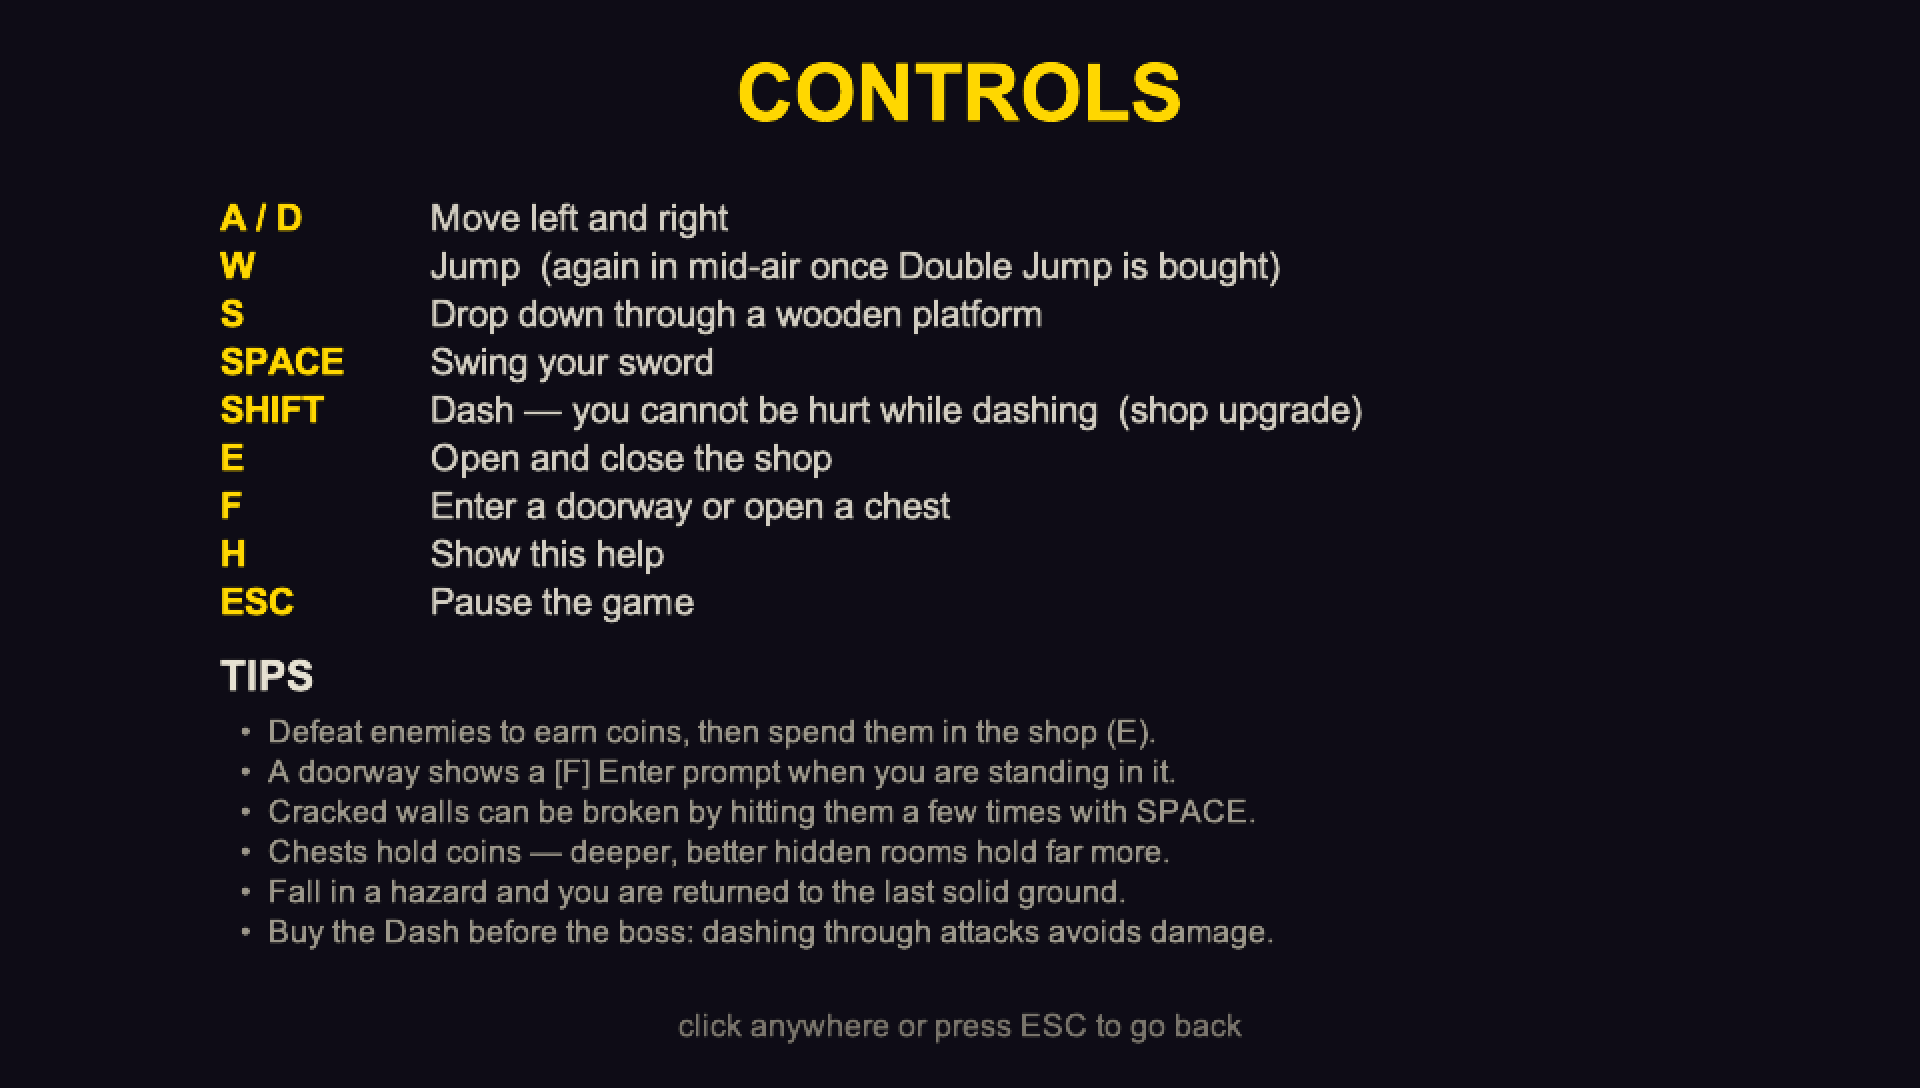
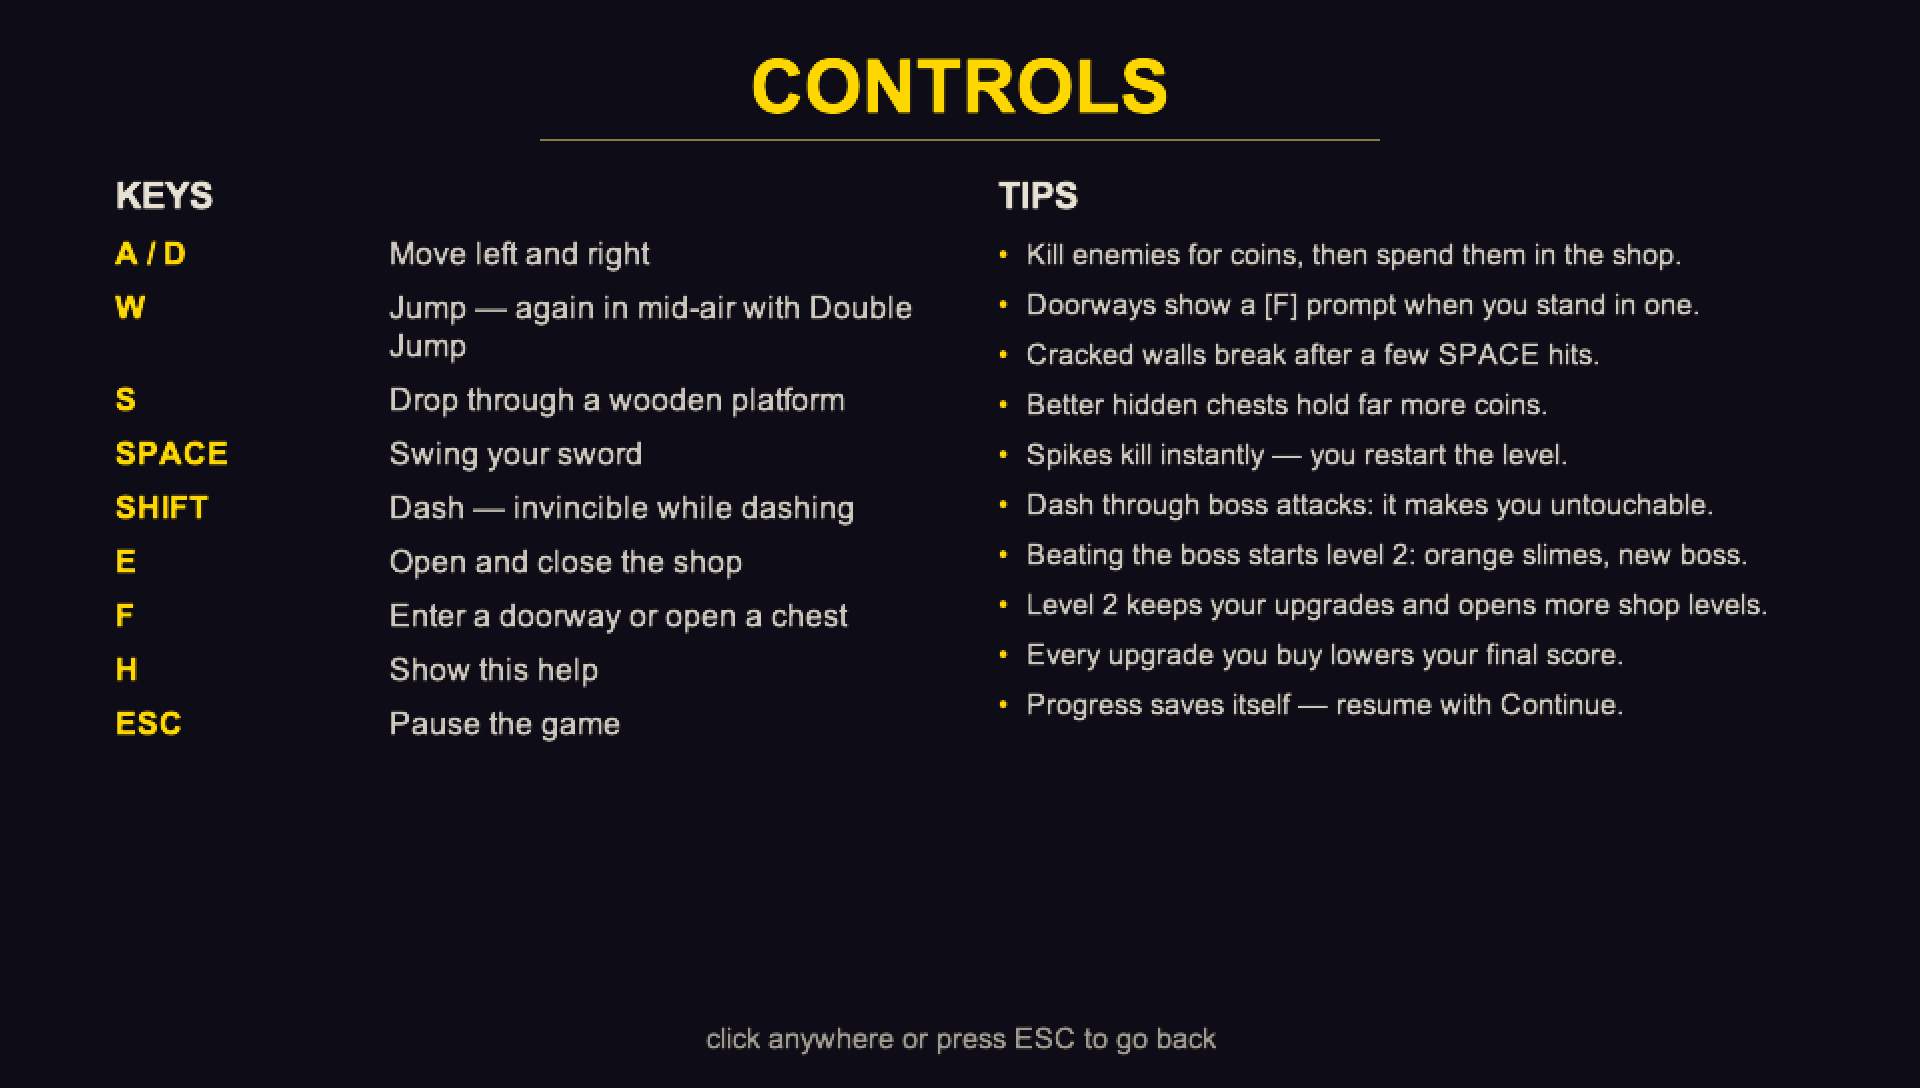
Lay the controls screen out in two columns
The controls list ran down the left of the screen while the right third
sat empty, and the tips had grown long enough to overlap each other and
run off the bottom.

- Keys and tips are now side by side, filling the width.
- Each row measures its own height before the next is placed, so a line
  that wraps can no longer be drawn on top of the row beneath it.
- The wording is tightened so nearly every entry fits on one line.
- The panel is drawn by help_screen.py, shared by the menu's Controls
  screen and the in-game [H] overlay, so the two cannot drift apart.

diff --git a/constants.py b/constants.py
@@ -129,10 +129,10 @@ SHOP_ITEMS = [
 # during play, so both always describe the same controls.
 HELP_CONTROLS = [
     ("A / D", "Move left and right"),
-    ("W", "Jump  (again in mid-air once Double Jump is bought)"),
-    ("S", "Drop down through a wooden platform"),
+    ("W", "Jump — twice once Double Jump is bought"),
+    ("S", "Drop through a wooden platform"),
     ("SPACE", "Swing your sword"),
-    ("SHIFT", "Dash — you cannot be hurt while dashing  (shop upgrade)"),
+    ("SHIFT", "Dash — invincible while dashing"),
     ("E", "Open and close the shop"),
     ("F", "Enter a doorway or open a chest"),
     ("H", "Show this help"),
@@ -140,16 +140,16 @@ HELP_CONTROLS = [
 ]
 
 HELP_TIPS = [
-    "Defeat enemies to earn coins, then spend them in the shop (E).",
-    "A doorway shows a [F] Enter prompt when you are standing in it.",
-    "Cracked walls can be broken by hitting them a few times with SPACE.",
-    "Chests hold coins — deeper, better hidden rooms hold far more.",
-    "Spikes are instant death — you restart the level, keeping coins and upgrades.",
-    "Buy the Dash before the boss: dashing through attacks avoids damage.",
-    "Beating the boss starts level 2: same world, orange slimes, a new boss.",
-    "Level 2 does not reset your upgrades — the shop just opens more levels.",
-    "Every upgrade you buy lowers your score: winning lean scores highest.",
-    "Progress saves automatically — pick it up with Continue on the menu.",
+    "Kill enemies for coins, then spend them in the shop.",
+    "Doorways show a [F] prompt when you stand in one.",
+    "Cracked walls break after a few SPACE hits.",
+    "Better hidden chests hold far more coins.",
+    "Spikes kill instantly — you restart the level.",
+    "Dash through boss attacks: it makes you untouchable.",
+    "Beating the boss starts level 2: orange slimes, new boss.",
+    "Level 2 keeps your upgrades and opens more shop levels.",
+    "Every upgrade you buy lowers your final score.",
+    "Progress saves itself — resume with Continue.",
 ]
 
 # Score. Playing well earns points; making the game easier costs them, so

diff --git a/help_screen.py b/help_screen.py
@@ -1,0 +1,55 @@
+"""The controls/tips panel, shared by the menu screen and the in-game [H] overlay."""
+
+import arcade
+
+from constants import HELP_CONTROLS, HELP_TIPS
+
+GOLD = (255, 215, 0)
+PARCHMENT = (230, 225, 210)
+BODY = (205, 200, 190)
+MUTED = (160, 155, 145)
+
+
+def _block(text, x, y, colour, size, width, bold=False):
+    """Draw wrapped text and report how tall it actually was.
+
+    Stepping down by a fixed amount overlapped the rows whenever a line
+    wrapped, so each block measures itself.
+    """
+    label = arcade.Text(text, x, y, colour, size, width=int(width),
+                        multiline=True, bold=bold)
+    label.draw()
+    return label.content_height
+
+
+def draw(window, title="CONTROLS", footer="click anywhere or press ESC to go back"):
+    """Two columns — keys on the left, tips on the right."""
+    w, h = window.width, window.height
+    cx = w / 2
+    margin = w * 0.06
+    gutter = w * 0.04
+    col_w = (w - margin * 2 - gutter) / 2
+
+    left = margin
+    right = margin + col_w + gutter
+    action_x = left + col_w * 0.34
+    top = h - 104
+
+    arcade.draw_text(title, cx, h - 56, GOLD, 28, anchor_x="center", bold=True)
+    arcade.draw_line(cx - 210, h - 70, cx + 210, h - 70, (*GOLD, 90), 1)
+
+    arcade.draw_text("KEYS", left, top, PARCHMENT, 14, bold=True)
+    y = top - 28
+    for key, action in HELP_CONTROLS:
+        arcade.draw_text(key, left, y, GOLD, 12, bold=True)
+        used = _block(action, action_x, y, BODY, 12, col_w - col_w * 0.34)
+        y -= max(used, 16) + 8
+
+    arcade.draw_text("TIPS", right, top, PARCHMENT, 14, bold=True)
+    y = top - 28
+    for tip in HELP_TIPS:
+        arcade.draw_text("•", right, y, GOLD, 11)
+        used = _block(tip, right + 14, y, BODY, 11, col_w - 14)
+        y -= max(used, 15) + 7
+
+    arcade.draw_text(footer, cx, 20, MUTED, 11, anchor_x="center")

diff --git a/game_view.py b/game_view.py
@@ -10,6 +10,7 @@ from entities import Wall, PlayerSpawner, CaveEntrance, Chest
 from maploader import load_ogmo_map, new_tile_atlas
 import game_camera
 import progress
+import help_screen
 
 
 class GameView(arcade.View):
@@ -558,33 +559,11 @@ class GameView(arcade.View):
                 )
 
     def draw_help(self):
-        """Full-screen controls + tips overlay, opened with [H] and shown
-        once automatically when a new game starts."""
+        """The [H] overlay — the same panel the menu's Controls screen shows."""
         w, h = self.window.width, self.window.height
-        cx = w / 2
-
-        arcade.draw_lrbt_rectangle_filled(0, w, 0, h, (8, 6, 14, 235))
-        arcade.draw_text("HOW TO PLAY", cx, h - 55, arcade.color.GOLD, 26,
-                         anchor_x="center", bold=True)
-
-        y = h - 105
-        arcade.draw_text("CONTROLS", 90, y, arcade.color.WHITE_SMOKE, 15,
-                         bold=True)
-        y -= 26
-        for key, what in HELP_CONTROLS:
-            arcade.draw_text(key, 100, y, arcade.color.GOLD, 13, bold=True)
-            arcade.draw_text(what, 205, y, arcade.color.LIGHT_GRAY, 13)
-            y -= 21
-
-        y -= 12
-        arcade.draw_text("TIPS", 90, y, arcade.color.WHITE_SMOKE, 15, bold=True)
-        y -= 24
-        for tip in HELP_TIPS:
-            arcade.draw_text(f"•  {tip}", 100, y, arcade.color.LIGHT_GRAY, 12)
-            y -= 19
-
-        arcade.draw_text("press  H  or  ESC  to close", cx, 24,
-                         arcade.color.GRAY, 12, anchor_x="center")
+        arcade.draw_lrbt_rectangle_filled(0, w, 0, h, (8, 6, 14, 238))
+        help_screen.draw(self.window, title="HOW TO PLAY",
+                         footer="press  H  or  ESC  to close")
 
     def draw_shop(self):
         cx = self.window.width / 2

diff --git a/menu.py b/menu.py
@@ -6,6 +6,7 @@ import arcade.gui
 
 from constants import resource_path, HELP_CONTROLS, HELP_TIPS
 import progress
+import help_screen
 
 SCREEN_WIDTH = 960
 SCREEN_HEIGHT = 544
@@ -214,8 +215,7 @@ class MenuView(arcade.View):
 
 
 class HelpView(arcade.View):
-    """The menu's Controls screen — the same controls and tips the [H]
-    overlay shows during play, so a player can read them before starting."""
+    """The menu's Controls screen — the same panel the [H] overlay shows."""
 
     def __init__(self, return_view):
         super().__init__()
@@ -231,27 +231,8 @@ class HelpView(arcade.View):
     def on_draw(self):
         self.clear()
         w, h = self.window.width, self.window.height
-        cx = w / 2
-
         arcade.draw_lrbt_rectangle_filled(0, w, 0, h, (14, 12, 22, 255))
-        arcade.draw_text("CONTROLS", cx, h - 60, GOLD, 30,
-                         anchor_x="center", bold=True)
-
-        y = h - 115
-        for key, what in HELP_CONTROLS:
-            arcade.draw_text(key, 110, y, GOLD, 14, bold=True)
-            arcade.draw_text(what, 215, y, (*PARCHMENT, 230), 14)
-            y -= 24
-
-        y -= 14
-        arcade.draw_text("TIPS", 110, y, (*PARCHMENT, 255), 16, bold=True)
-        y -= 26
-        for tip in HELP_TIPS:
-            arcade.draw_text(f"•  {tip}", 120, y, (170, 165, 150, 230), 12)
-            y -= 20
-
-        arcade.draw_text("click anywhere or press ESC to go back", cx, 26,
-                         (150, 145, 130, 200), 12, anchor_x="center")
+        help_screen.draw(self.window)
 
 
 class HighScoreView(arcade.View):
